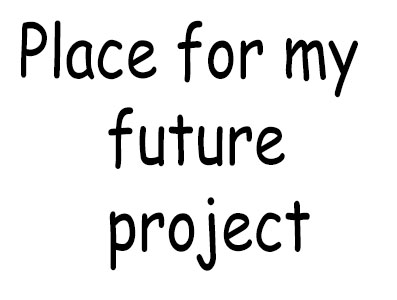
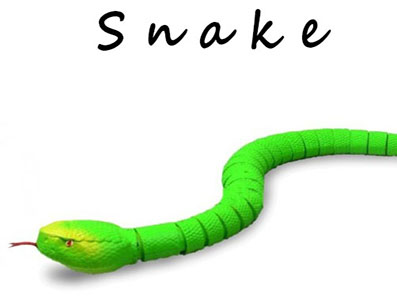
add snake project

Changed region(s): [[0.0, 0.36, 1.0, 0.96], [0.0302, 0.03, 0.9068, 0.33]]

diff --git a/index.html b/index.html
@@ -378,27 +378,25 @@
                                         <div class="work-popup-content">
                                             <a href="javascript:void(0);" class="work-popup-close">Hide</a>
                                             <div class="margin-b-30">
-                                                <h3 class="margin-b-5">Art Of Coding</h3>
-                                                <span>Clean &amp; Minimalistic Design</span>
+                                                <h3 class="margin-b-5">Snake</h3>
+                                                <span>Simple game</span>
                                             </div>
                                             <div class="row">
                                                 <div class="col-sm-8 work-popup-content-divider sm-margin-b-20">
                                                     <div class="margin-t-10 sm-margin-t-0">
-                                                        <p>Duis aute irure dolor in reprehenderit in voluptate velit esse cillum dolore eu fugiat nulla pariatur. Excepteur sint occaecat cupidatat non proident, sunt in culpa qui officia deserunt mollit anim id est laborum.</p>
-                                                        <p>Lorem ipsum dolor sit amet, consectetur adipisicing elit, sed do eiusmod tempor incididunt ut labore et dolore magna aliqua. Ut enim ad minim veniam, quis nostrud.</p>
+                                                        <p>In this project I used HTML5, CSS3 and Native Javascript, assembled the project with the streaming build system gulp, used Jet Brains WebStorm in development.</p>
                                                         <ul class="list-inline work-popup-tag">
-                                                            <li class="work-popup-tag-item"><a class="work-popup-tag-link" href="#">Design,</a></li>
-                                                            <li class="work-popup-tag-item"><a class="work-popup-tag-link" href="#">Coding,</a></li>
-                                                            <li class="work-popup-tag-item"><a class="work-popup-tag-link" href="#">Portfolio</a></li>
+                                                            <li class="work-popup-tag-item"><a class="work-popup-tag-link" href="https://github.com/Kostiantyn-S/snake" target="_blank">View code, </a></li>
+                                                            <li class="work-popup-tag-item"><a class="work-popup-tag-link" href="snake/index.html" target="_blank">View page</a></li>
                                                         </ul>
                                                     </div>
                                                 </div>
                                                 <div class="col-sm-4">
                                                     <div class="margin-t-10 sm-margin-t-0">
-                                                        <p class="margin-b-5"><strong>Project Leader:</strong> John Doe</p>
-                                                        <p class="margin-b-5"><strong>Designer:</strong> Alisa Keys</p>
-                                                        <p class="margin-b-5"><strong>Developer:</strong> Mark Doe</p>
-                                                        <p class="margin-b-5"><strong>Customer:</strong> Keenthemes</p>
+                                                        <p class="margin-b-5"><strong>Project Leader:</strong> Starchyk Kostiantyn</p>
+                                                        <p class="margin-b-5"><strong>Designer:</strong> Starchyk Kostiantyn</p>
+                                                        <p class="margin-b-5"><strong>Developer:</strong> Starchyk Kostiantyn</p>
+                                                        <p class="margin-b-5"><strong>Customer:</strong> Starchyk Kostiantyn</p>
                                                     </div>
                                                 </div>
                                             </div>

diff --git a/snake/js/main.js b/snake/js/main.js
@@ -1,0 +1,1 @@
+"use strict";var mycanvas=document.getElementById("canvas"),ctx=mycanvas.getContext("2d"),snakeSize=10,w=350,h=350,score=0,snake=void 0,food=void 0,direction=void 0,gameloop=void 0,tail=void 0,btn=document.getElementById("btn"),drawModule=function(){var e=function(e,t){ctx.fillStyle="#4ef62c",ctx.fillRect(e*snakeSize,t*snakeSize,snakeSize,snakeSize)},t=function(e,t){ctx.fillStyle="#000000",ctx.fillRect(e*snakeSize,t*snakeSize,snakeSize,snakeSize),ctx.fillStyle="#ff7079",ctx.fillRect(e*snakeSize+1,t*snakeSize+1,snakeSize-2,snakeSize-2)},n=function(){var e="Score: "+score;ctx.fillStyle="blue",ctx.fillText(e,145,h-5)},o=function(){var e=4;snake=[];for(var t=e-1;t>=0;t--)snake.push({x:t,y:0})},i=function(){ctx.fillStyle="#ffffff",ctx.fillRect(0,0,w,h),ctx.strokeStyle="black",ctx.strokeRect(0,0,w,h),btn.setAttribute("disabled",!0);var o=snake[0].x,i=snake[0].y;switch(direction){case"right":o++;break;case"left":o--;break;case"up":i--;break;case"down":i++}if(o===-1||o===w/snakeSize||i===-1||i===h/snakeSize||r(o,i,snake))return btn.removeAttribute("disabled",!0),ctx.clearRect(0,0,w,h),void(gameloop=clearInterval(gameloop));o===food.x&&i===food.y?(tail={x:o,y:i},score++,a()):(tail=snake.pop(),tail.x=o,tail.y=i),snake.unshift(tail);for(var c=0;c<snake.length;c++)e(snake[c].x,snake[c].y);t(food.x,food.y),n()},a=function(){food={x:Math.floor(30*Math.random()+1),y:Math.floor(30*Math.random()+1)};for(var e=0;e>snake.length;e++){var t=snake[e].x,n=snake[e].y;(food.x===t&&food.y===n||food.y===n&&food.x===t)&&(food.x=Math.floor(30*Math.random()+1),food.y=Math.floor(30*Math.random()+1))}},r=function(e,t,n){for(var o=0;o<n.length;o++)if(n[o].x===e&&n[o].y===t)return!0;return!1},c=function(){direction="down",o(),a(),gameloop=setInterval(i,80)};return{init:c}}();!function(e,t,n){btn.addEventListener("click",function(){n.init()}),t.onkeydown=function(e){switch(e.code){case"ArrowLeft":"right"!==direction&&(direction="left");break;case"ArrowRight":"left"!==direction&&(direction="right");break;case"ArrowUp":"down"!==direction&&(direction="up");break;case"ArrowDown":"up"!==direction&&(direction="down")}}}(window,document,drawModule);

diff --git a/snake/css/main.css b/snake/css/main.css
@@ -1,0 +1,1 @@
[1 lines of base64/hex data omitted]

diff --git a/snake/index.html b/snake/index.html
@@ -1,0 +1,1 @@
+<!DOCTYPE html><html lang="en"><head><meta charset="UTF-8"><meta name="viewport" content="width=device-width,initial-scale=1"><meta http-equiv="X-UA-Compatible" content="ie=edge"><link rel="stylesheet" href="css/main.css"><title>Snake</title><link rel="shortcut icon" href="favicon/snake.png"></head><body><div class="game"><div class="title">Let's play snake, it's very fun!</div><div id="home"><canvas id="canvas" width="350" height="350"></canvas></div><div class="controls"><p>Press start to begin</p><button id="btn">START</button></div></div><script src="js/main.js"></script></body></html>
